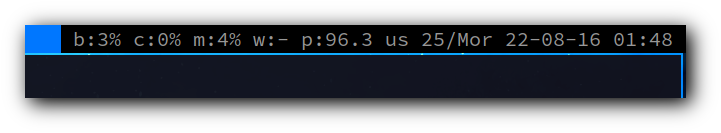
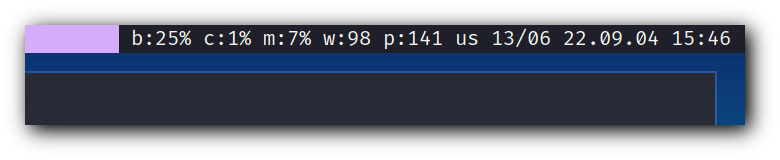
screenshots updated

diff --git a/sent/config.def.h b/sent/config.def.h
@@ -1,6 +1,7 @@
 /* See LICENSE file for copyright and license details. */
 
 static char *fontfallbacks[] = {
+	"Libertinus Sans",
 	"Source Sans Pro",
 	"Source Serif Pro",
 	"ubuntu",

diff --git a/tabbed/README.md b/tabbed/README.md
@@ -1,2 +1,25 @@
-# tabbed
-tab-adding suckless program
+# tabbed - generic tabbed interface
+
+tabbed is a simple tabbed X window container.
+
+## Requirements
+
+In order to build tabbed you need the Xlib header files.
+
+## Installation
+
+Edit config.mk to match your local setup (tabbed is installed into
+the /usr/local namespace by default).
+
+Afterwards enter the following command to build and install tabbed
+(if necessary as root):
+
+    make clean install
+
+## Running tabbed
+
+See the man page for details.
+
+## Screenshot
+
+![tabbed-shot](tabbed.png)

diff --git a/sent/README.md b/sent/README.md
@@ -58,6 +58,8 @@ with `#` will be ignored. A `\` at the beginning of the line escapes `@` and
 
 ![progress-bar-and-toggle-inver-colors](shots/deps.png)
 
+![libertinus-sans](shots/220904_231607.png)
+
 ### Patches
 
 - bidi

diff --git a/dwm/README.md b/dwm/README.md
@@ -59,6 +59,8 @@ and (re)compiling the source code.
 
 ![color-on-fg](shots/color-on-fg.png)
 
+![dracula](shots/dracula.png)
+
 ### Todo
 
 - [ ] dependencies
